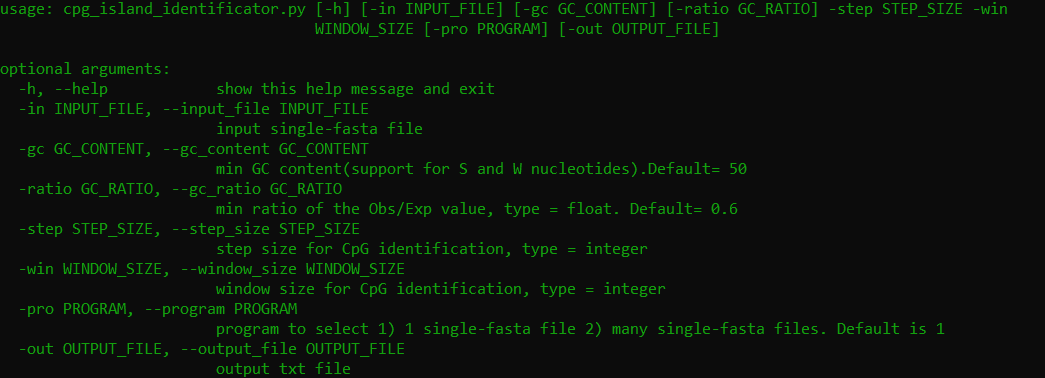
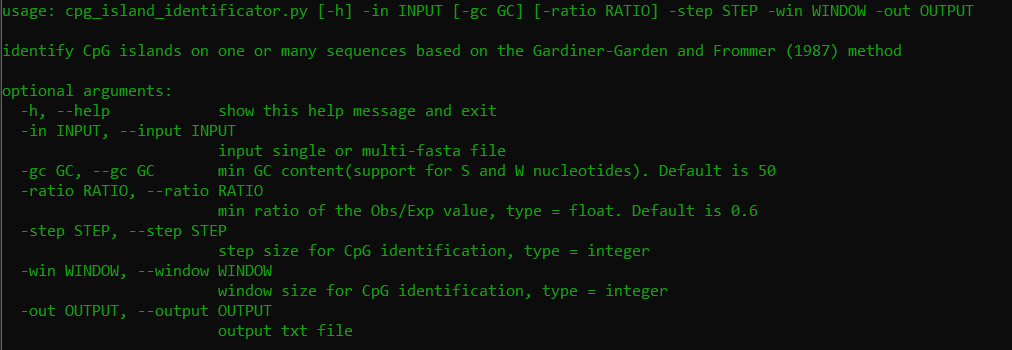
1 multi-fasta instead of many single-fasta

Changed region(s): [[0.0, 0.0, 0.9802, 1.0]]

diff --git a/src/gui/cpg_island_identificator_gui.py b/src/gui/cpg_island_identificator_gui.py
@@ -1,22 +1,19 @@
-#!/usr/bin/python3
+# python3
 from gooey import *
 from Bio import SeqIO
 from Bio.Seq import Seq, MutableSeq, reverse_complement
 from Bio.Data import IUPACData
 import pandas as pd
-pd.options.mode.chained_assignment = None
 # input parameters
-@Gooey(required_cols=2, program_name='CpG island identificator', header_bg_color= '#DCDCDC', terminal_font_color= '#DCDCDC', terminal_panel_color= '#DCDCDC')
+@Gooey(required_cols=4, program_name='CpG island identificator', header_bg_color= '#DCDCDC', terminal_font_color= '#DCDCDC', terminal_panel_color= '#DCDCDC')
 def main():
     ap = GooeyParser(description="identify CpG islands on one or many sequences based on the Gardiner-Garden and Frommer (1987) method")
-    ap.add_argument("-in", "--input", required=False, widget='FileChooser', help="input single-fasta file")
-    ap.add_argument("-gc", "--gc",  required=False, default=50, help="min GC content(support for S and W nucleotides).Default= 50")
-    ap.add_argument("-ratio", "--ratio", required=False, default=0.6, help="min ratio of the Obs/Exp value, type = float. Default= 0.6")
+    ap.add_argument("-in", "--input", required=True, widget='FileChooser', help="input single or multi-fasta file")
+    ap.add_argument("-gc", "--gc",  required=False, default=50, help="min GC content(support for S and W nucleotides)")
+    ap.add_argument("-ratio", "--ratio", required=False, default=0.6, help="min ratio of the Obs/Exp value, type = float")
     ap.add_argument("-step", "--step", required=True, help="step size for CpG identification, type = integer")
     ap.add_argument("-win", "--window", required=True, help="window size for CpG identification, type = integer")
-    ap.add_argument("-pro", "--program", type=int, default=1, required=False, help="program to select 1) 1 single-fasta file 2) many single-fasta files. Default is 1")
-    ap.add_argument("-dir", "--directory", required=False, type=str, widget='DirChooser', help="directory to search for fasta files")
-    ap.add_argument("-out", "--output", required=False, widget='FileSaver', help="output txt file")
+    ap.add_argument("-out", "--output", required=True, widget='FileSaver', help="output txt file")
     args = vars(ap.parse_args())
     # calculate obs value
     def obs(seq):
@@ -25,93 +22,49 @@ def main():
     def exp(seq):
         return round(seq.count('C') * seq.count('G') / int(args['window']), 2)
     # calculate gc content
-    def gc_content(seq):
+    def gc(seq):
         gc = sum(seq.count(x) for x in ["G", "C", "S"])
         return round(gc * 100 / sum(seq.count(x) for x in ["A", "T", "G", "C", "S", "W"]), 2)
     # main
     gcobs = []
     gcexp = []
+    start = []
+    end = []
     headers = [] # setup empty lists
-    # choose program
-    if args['program'] == 1:
-        # 1 single-fasta file
-        record = SeqIO.read(args['input'], "fasta")
-        rev = reverse_complement(record.seq)
+    # import multi-fasta
+    for record in SeqIO.parse(args['input'], "fasta"):
+        rever = reverse_complement(record.seq)
+    # forward sequence
         for i in range(0, len(record.seq) - int(args['window']) + 1, int(args['step'])):
-            if gc_content(record.seq[i:i + int(args['window'])]) > float(args['gc']):
+            if gc(record.seq[i:i + int(args['window'])]) > float(args['gc']):
                 gcobs.append(obs(record.seq[i:i + int(args['window'])]))
                 gcexp.append(exp(record.seq[i:i + int(args['window'])]))
-                headers.append(i)
-            if gc_content(rev[i:i + int(args['window'])]) > float(args['gc']):
-                gcobs.append(obs(rev[i:i + int(args['window'])]))
-                gcexp.append(exp(rev[i:i + int(args['window'])]))
-                headers.append(i -len(record.seq))
-        # create data frame
-        df = pd.DataFrame()
-        df['start'] = headers
-        df['obs'] = gcobs
-        df['exp'] = gcexp
-        df['obs/exp'] = round(df['obs']/df['exp'], 2)
-        df = df[df['exp'] > 0]
-        df = df[df['obs/exp'] > float(args['ratio'])]
-        df = df.sort_values(by=['obs/exp'], ascending=False)
-        df['id'] = record.id
-        start = df.iloc[:,0]
-        end = start.astype(int) + int(args['window'])
-        df1 = pd.DataFrame()
-        df1 = df[["id"]]
-        df1['start'] = start
-        df1['end'] = end
-        df1['obs'] = df[["obs"]]
-        df1['exp'] = df[["exp"]]
-        df1['obs/exp'] = df[["obs/exp"]]
-        # export
-        with open(args['output'], 'a') as f:
-            f.write(
-                df1.to_csv(header = True, index = False, sep = '\t', doublequote= False, line_terminator= '\n')
-            )
-        # many single fasta files
-    else:
-        # import each fasta file from the working directory
-        for filename in sorted(os.listdir(os.chdir(args['directory']))):
-            if filename.endswith(".fa") or filename.endswith(".fasta"):
-                record = SeqIO.read(filename, "fasta")
-                rev = reverse_complement(record.seq)
-                for i in range(0, len(record.seq) - int(args['window']) + 1, int(args['step'])):
-                    if gc_content(record.seq[i:i + int(args['window'])]) > float(args['gc']):
-                        gcobs.append(obs(record.seq[i:i + int(args['window'])]))
-                        gcexp.append(exp(record.seq[i:i + int(args['window'])]))
-                        headers.append(i)
-                    if gc_content(rev[i:i + int(args['window'])]) > float(args['gc']):
-                        gcobs.append(obs(rev[i:i + int(args['window'])]))
-                        gcexp.append(exp(rev[i:i + int(args['window'])]))
-                        headers.append(i -len(record.seq))
-                # create data frame
-                df = pd.DataFrame()
-                df['start'] = headers
-                df['obs'] = gcobs
-                df['exp'] = gcexp
-                df['obs/exp'] = round(df['obs']/df['exp'], 2)
-                df = df[df['exp'] > 0]
-                df = df[df['obs/exp'] > float(args['ratio'])]
-                df = df.sort_values(by=['obs/exp'], ascending=False)
-                df['id'] = record.id
-                start = df.iloc[:,0]
-                end = start.astype(int) + int(args['window'])
-                df1 = pd.DataFrame()
-                df1 = df[["id"]]
-                df1['start'] = start
-                df1['end'] = end
-                df1['obs'] = df[["obs"]]
-                df1['exp'] = df[["exp"]]
-                df1['obs/exp'] = df[["obs/exp"]]
-                # export
-                with open(''.join([filename.split(".")[0],"_CpG_islands_","w",str(args['window']),"_","s",str(args['step']),"_","r",str(args['ratio']),"_","gc",str(args['gc']),".txt"]), 'a') as f:
-                    f.write(
-                        df1.to_csv(header = True, index = False, sep = '\t', doublequote= False, line_terminator= '\n')
-                    )
-                # remove lists and dataframe to be used for the next file
-                gcobs.clear(); gcexp.clear(); headers.clear(); del df; del start; del end; del df1
+                start.append(i + 1) # fix python index
+                end.append(i + int(args['window'])) # retrieve the end position of each putative CpG island
+                headers.append(record.id)
+    # reverse complement
+            if gc(rever[i:i + int(args['window'])]) > float(args['gc']):
+                gcobs.append(obs(rever[i:i + int(args['window'])]))
+                gcexp.append(exp(rever[i:i + int(args['window'])]))
+                start.append(i -len(record.seq))
+                end.append(i -len(record.seq) + int(args['window'])) # retrieve the end position of each putative CpG island
+                headers.append(record.id)
+    # create data frame
+    df = pd.DataFrame()
+    df['id'] = headers
+    df['start'] = start
+    df['end'] = end
+    df['obs'] = gcobs
+    df['exp'] = gcexp
+    df['obs/exp'] = round(df['obs']/df['exp'], 2) # calculate obs/exp ratio and filter by a user spesified threshold
+    df = df[df['exp'] > 0]
+    df = df[df['obs/exp'] > float(args['ratio'])]
+    df = df.sort_values(by=['obs/exp'], ascending=False) # sort by biggest obs/exp ratio
+    # export
+    with open(args['output'], 'a') as f:
+        f.write(
+            df.to_csv(header = True, index = False, sep = '\t', doublequote= False, line_terminator= '\n')
+        )
 
 if __name__ == '__main__':
     main()

diff --git a/src/command_line/cpg_island_identificator.py b/src/command_line/cpg_island_identificator.py
@@ -1,115 +1,65 @@
 #!/usr/bin/python3
-import os
 import argparse
 from Bio import SeqIO
 from Bio.Seq import Seq, MutableSeq, reverse_complement
 from Bio.Data import IUPACData
 import pandas as pd
-pd.options.mode.chained_assignment = None
 # input parameters
-ap = argparse.ArgumentParser()
-ap.add_argument("-in", "--input_file", required=False, help="input single-fasta file")
-ap.add_argument("-gc", "--gc_content",  required=False, default=50, help="min GC content(support for S and W nucleotides).Default= 50")
-ap.add_argument("-ratio", "--gc_ratio", required=False, default=0.6, help="min ratio of the Obs/Exp value, type = float. Default= 0.6")
-ap.add_argument("-step", "--step_size", required=True, help="step size for CpG identification, type = integer")
-ap.add_argument("-win", "--window_size", required=True, help="window size for CpG identification, type = integer")
-ap.add_argument("-pro", "--program", type=int, default=1, required=False, help="program to select 1) 1 single-fasta file 2) many single-fasta files. Default is 1")
-ap.add_argument("-out", "--output_file", required=False, help="output txt file")
+ap = argparse.ArgumentParser(description="identify CpG islands on one or many sequences based on the Gardiner-Garden and Frommer (1987) method")
+ap.add_argument("-in", "--input", required=True, help="input single or multi-fasta file")
+ap.add_argument("-gc", "--gc",  required=False, default=50, help="min GC content(support for S and W nucleotides). Default is 50")
+ap.add_argument("-ratio", "--ratio", required=False, default=0.6, help="min ratio of the Obs/Exp value, type = float. Default is 0.6")
+ap.add_argument("-step", "--step", required=True, help="step size for CpG identification, type = integer")
+ap.add_argument("-win", "--window", required=True, help="window size for CpG identification, type = integer")
+ap.add_argument("-out", "--output", required=True,  help="output txt file")
 args = vars(ap.parse_args())
 # calculate obs value
 def obs(seq):
     return seq.count('CG')
 # calculate Exp value
 def exp(seq):
-    return round(seq.count('C') * seq.count('G') / int(args['window_size']), 2)
+    return round(seq.count('C') * seq.count('G') / int(args['window']), 2)
 # calculate gc content
-def gc_content(seq):
+def gc(seq):
     gc = sum(seq.count(x) for x in ["G", "C", "S"])
     return round(gc * 100 / sum(seq.count(x) for x in ["A", "T", "G", "C", "S", "W"]), 2)
 # main
 gcobs = []
 gcexp = []
+start = []
+end = []
 headers = [] # setup empty lists
-# choose program
-if args['program'] == 1:
-    # 1 single-fasta file
-    record = SeqIO.read(args['input_file'], "fasta")
-    rev = reverse_complement(record.seq)
-    for i in range(0, len(record.seq) - int(args['window_size']) + 1, int(args['step_size'])):
-        if gc_content(record.seq[i:i + int(args['window_size'])]) > float(args['gc_content']):
-            gcobs.append(obs(record.seq[i:i + int(args['window_size'])]))
-            gcexp.append(exp(record.seq[i:i + int(args['window_size'])]))
-            headers.append(i)
-        if gc_content(rev[i:i + int(args['window_size'])]) > float(args['gc_content']):
-            gcobs.append(obs(rev[i:i + int(args['window_size'])]))
-            gcexp.append(exp(rev[i:i + int(args['window_size'])]))
-            headers.append(i -len(record.seq))
-    # create data frame
-    df = pd.DataFrame()
-    df['start'] = headers
-    df['obs'] = gcobs
-    df['exp'] = gcexp
-    df['obs/exp'] = round(df['obs']/df['exp'], 2)
-    df = df[df['exp'] > 0]
-    df = df[df['obs/exp'] > float(args['gc_ratio'])]
-    df = df.sort_values(by=['obs/exp'], ascending=False)
-    df['id'] = record.id
-    start = df.iloc[:,0]
-    end = start.astype(int) + int(args['window_size'])
-    df1 = pd.DataFrame()
-    df1 = df[["id"]]
-    df1['start'] = start
-    df1['end'] = end
-    df1['obs'] = df[["obs"]]
-    df1['exp'] = df[["exp"]]
-    df1['obs/exp'] = df[["obs/exp"]]
-    # export
-    with open(args['output_file'], 'a') as f:
-        f.write(
-            df1.to_csv(header = True, index = False, sep = '\t', doublequote= False, line_terminator= '\n')
-        )
-    # many single fasta files
-else:
-    # import each fasta file from the working directory
-    for filename in sorted(os.listdir(str(os.getcwd()))):
-        if filename.endswith(".fa") or filename.endswith(".fasta"):
-            record = SeqIO.read(filename, "fasta")
-            rev = reverse_complement(record.seq)
-            for i in range(0, len(record.seq) - int(args['window_size']) + 1, int(args['step_size'])):
-                if gc_content(record.seq[i:i + int(args['window_size'])]) > float(args['gc_content']):
-                    gcobs.append(obs(record.seq[i:i + int(args['window_size'])]))
-                    gcexp.append(exp(record.seq[i:i + int(args['window_size'])]))
-                    headers.append(i)
-                if gc_content(rev[i:i + int(args['window_size'])]) > float(args['gc_content']):
-                    gcobs.append(obs(rev[i:i + int(args['window_size'])]))
-                    gcexp.append(exp(rev[i:i + int(args['window_size'])]))
-                    headers.append(i -len(record.seq))
-            # create data frame
-            df = pd.DataFrame()
-            df['start'] = headers
-            df['obs'] = gcobs
-            df['exp'] = gcexp
-            df['obs/exp'] = round(df['obs']/df['exp'], 2)
-            df = df[df['exp'] > 0]
-            df = df[df['obs/exp'] > float(args['gc_ratio'])]
-            df = df.sort_values(by=['obs/exp'], ascending=False)
-            df['id'] = record.id
-            start = df.iloc[:,0]
-            end = start.astype(int) + int(args['window_size'])
-            df1 = pd.DataFrame()
-            df1 = df[["id"]]
-            df1['start'] = start
-            df1['end'] = end
-            df1['obs'] = df[["obs"]]
-            df1['exp'] = df[["exp"]]
-            df1['obs/exp'] = df[["obs/exp"]]
-            # export
-            with open(''.join([filename.split(".")[0],"_CpG_islands_","w",str(args['window_size']),"_","s",str(args['step_size']),"_","r",str(args['gc_ratio']),"_","gc",str(args['gc_content']),".txt"]), 'a') as f:
-                f.write(
-                    df1.to_csv(header = True, index = False, sep = '\t', doublequote= False, line_terminator= '\n')
-                )
-            # remove lists and dataframe to be used for the next file
-            gcobs.clear(); gcexp.clear(); headers.clear(); del df; del start; del end; del df1
-
-
-
+# import multi-fasta
+for record in SeqIO.parse(args['input'], "fasta"):
+    rever = reverse_complement(record.seq)
+# forward sequence
+    for i in range(0, len(record.seq) - int(args['window']) + 1, int(args['step'])):
+        if gc(record.seq[i:i + int(args['window'])]) > float(args['gc']):
+            gcobs.append(obs(record.seq[i:i + int(args['window'])]))
+            gcexp.append(exp(record.seq[i:i + int(args['window'])]))
+            start.append(i + 1) # fix python index
+            end.append(i + int(args['window'])) # retrieve the end position of each putative CpG island
+            headers.append(record.id)
+# reverse complement
+        if gc(rever[i:i + int(args['window'])]) > float(args['gc']):
+            gcobs.append(obs(rever[i:i + int(args['window'])]))
+            gcexp.append(exp(rever[i:i + int(args['window'])]))
+            start.append(i -len(record.seq))
+            end.append(i -len(record.seq) + int(args['window'])) # retrieve the end position of each putative CpG island
+            headers.append(record.id)
+# create data frame
+df = pd.DataFrame()
+df['id'] = headers
+df['start'] = start
+df['end'] = end
+df['obs'] = gcobs
+df['exp'] = gcexp
+df['obs/exp'] = round(df['obs']/df['exp'], 2) # calculate obs/exp ratio and filter by a user spesified threshold
+df = df[df['exp'] > 0]
+df = df[df['obs/exp'] > float(args['ratio'])]
+df = df.sort_values(by=['obs/exp'], ascending=False) # sort by biggest obs/exp ratio
+# export
+with open(args['output'], 'a') as f:
+    f.write(
+        df.to_csv(header = True, index = False, sep = '\t', doublequote= False, line_terminator= '\n')
+    )

diff --git a/README.md b/README.md
@@ -1,4 +1,4 @@
-# CpG_island_identificator [![DOI](https://zenodo.org/badge/DOI/10.5281/zenodo.5908207.svg)](https://doi.org/10.5281/zenodo.5908207)
+# CpG_island_identificator 
 
 CpG island identification pipeline inspired by the  Gardiner-Garden and Frommer (1987) method 
 
@@ -9,13 +9,13 @@ Windows grafical user interface standalone programs is avaliable here: [![DOI](h
 ![](img/program_gui.png)
 
 # **Binaries**
-The binary files for the windows and linux command line programs can be found: [![DOI](https://zenodo.org/badge/DOI/10.5281/zenodo.5907900.svg)](https://doi.org/10.5281/zenodo.5907900) (no depedences needed)
+The binary files for the windows and linux command line programs can be found: 
 
 # **Depedences**
 
 1. python3.8 or later
 
-2. argparse: `pip3 install argparse`  
+2. argparse: `pip3 install argparse`(for the command line)  
 
 3. biopython: `pip3 install biopython`
 
@@ -23,12 +23,6 @@ The binary files for the windows and linux command line programs can be found: [
 
 5. Gooey: (for the `gui.py` scripts) `pip install Gooey`
 
-# **Function**
-
-The program gives 2 options:
-
-1. import a single-fasta file and output a txt file
-2. import many single-fasta files from a directory and output to a txt for each single-fasta with the gc content, gc ratio, step and window size as suffix
 
 # **Example code**
 
